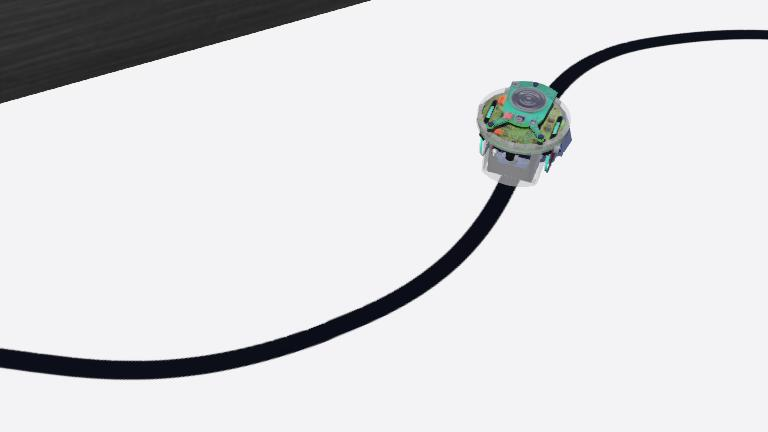
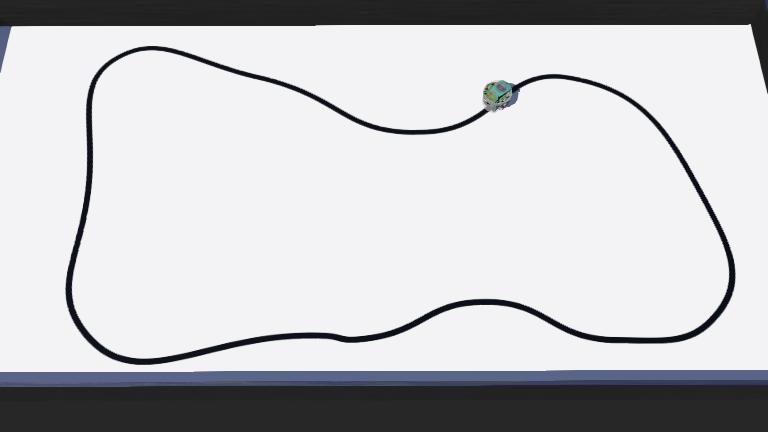
prj1-sensoren2 stap 6 robot de lijn laten volgen

diff --git a/sensoren/controllers/my_controller_line_follower/my_controller_line_follower.py b/sensoren/controllers/my_controller_line_follower/my_controller_line_follower.py
@@ -1,6 +1,7 @@
 """my_controller_line_follower controller."""
 
 from controller import Robot
+# varMax_speed = 6.28
 varMax_speed = 6.28 * 0.5
 
 def run_robot(robot): 
@@ -24,6 +25,8 @@ def run_robot(robot):
     iRightIR = robot.getDevice('IR_Right')
     iRightIR.enable(timestep)
 
+    IRsensBlack = 1000
+
     # Main loop:
     # - perform simulation steps until Webots is stopping the controller
     while robot.step(timestep) != -1:
@@ -34,6 +37,25 @@ def run_robot(robot):
         mLeftIR_Value = iLeftIR.getValue()
         mRightIR_Value = iRightIR.getValue()
         print("left: {} right: {}".format(mLeftIR_Value, mRightIR_Value))
+
+        detectRight = mRightIR_Value == IRsensBlack
+        detectLeft = mLeftIR_Value == IRsensBlack
+
+        if detectRight:
+            print("Turn right")
+            mRightSpeed =- varMax_speed
+            mLeftSpeed = varMax_speed
+
+        else:
+            if detectLeft:
+                print("Turn left")
+                mRightSpeed = varMax_speed
+                mLeftSpeed = -varMax_speed
+
+            elif not detectRight and not detectLeft:
+                print("Drive forward")
+                mRightSpeed = varMax_speed
+                mLeftSpeed = varMax_speed
 
         # Enter here functions to send actuator commands, like:
         oLeftMotor.setVelocity(mLeftSpeed)
